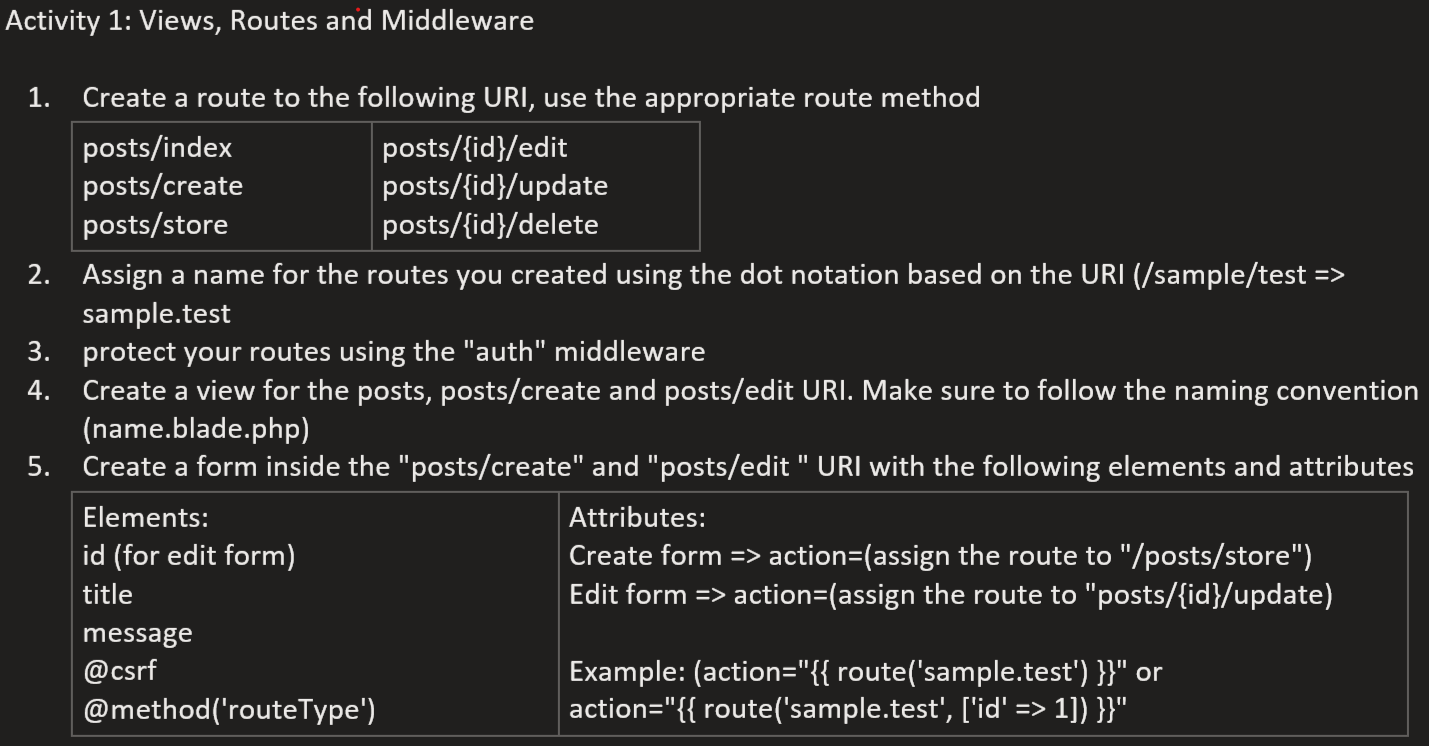
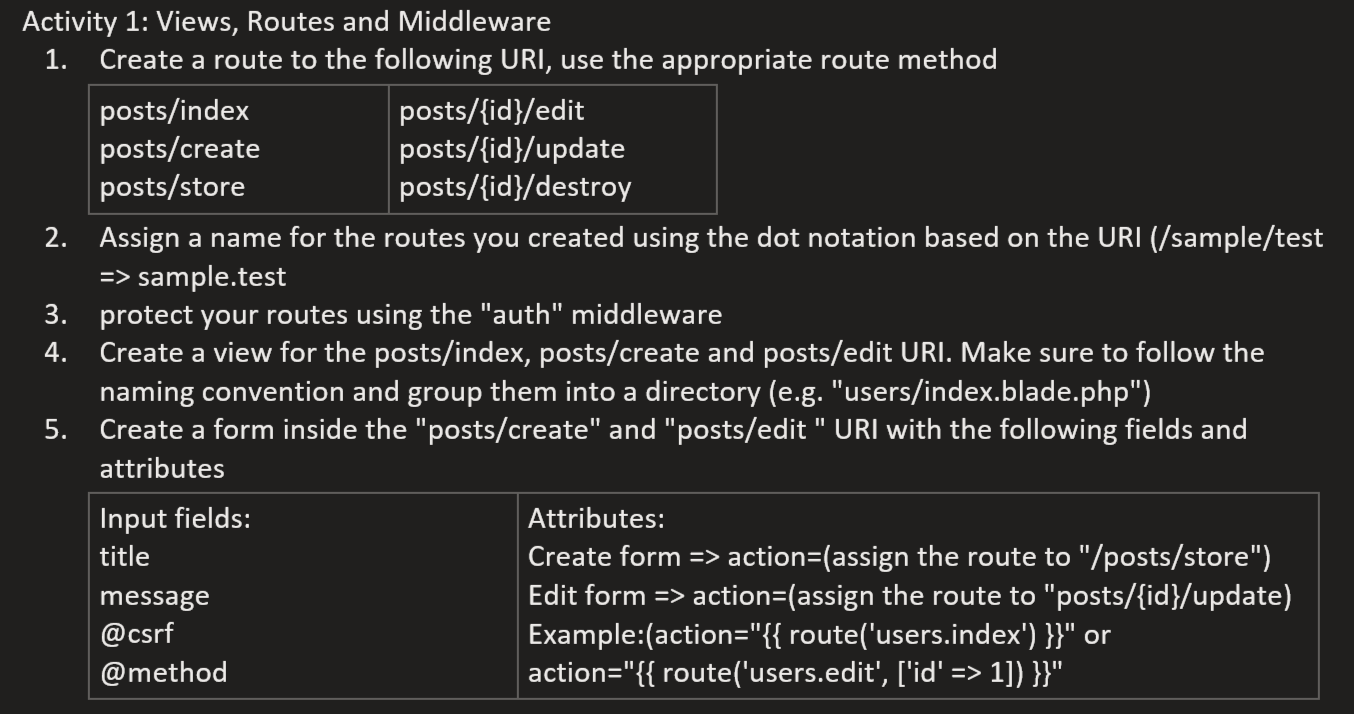
Add MVC, Controllers and Call to action sections

Changed region(s): [[0.0, 0.0, 0.9926, 0.986], [0.9616, 0.6779, 0.9926, 0.7087], [0.0, 0.6162, 0.031, 0.6471]]

diff --git a/slides/laravel-workshop.html b/slides/laravel-workshop.html
@@ -38,6 +38,8 @@
     <meta name="theme-color" content="#333333">
   </head>
   <body>
+    <div id="fb-root"></div>
+    <script async defer crossorigin="anonymous" src="https://connect.facebook.net/en_US/sdk.js#xfbml=1&version=v6.0&appId=619591822213872&autoLogAppEvents=1"></script>
     <main role="main">
       <article id="webslides" class="horizontal">
 
@@ -74,6 +76,7 @@
           </div>
           <!-- .end .wrap -->
         </section>
+
         <!-- Table of Contents -->
         <section class="slide py-5">
           <div class="wrap size-50">
@@ -81,45 +84,57 @@
                 <h4>Table of Contents</h4>
                 <ol class="">
                   <li>
-                    <a href="#slide=3" title="Go to Prerequisites">
+                    <a href="#slide=1" title="Go to Prerequisites">
                       <span class="chapter">Prerequisites</span>
                       <span class="toc-page">01</span>
                     </a>
                   </li>
                   <li>
-                    <a href="#slide=4" title="Go to Prerequisites">
+                    <a href="#slide=2" title="Go to Prerequisites">
                       <span class="chapter">Installation</span>
                       <span class="toc-page">02</span>
                     </a>
                   </li>
                   <li>
-                    <a href="#slide=5" title="Go to Configuration">
+                    <a href="#slide=3" title="Go to Configuration">
                       <span class="chapter">Configuration</span>
                       <span class="toc-page">03</span>
                     </a>
                   </li>
                   <li>
-                    <a href="#slide=6" title="Go to Routing">
-                      <span class="chapter">Routing and Middleware</span>
+                    <a href="#slide=4" title="Go to Routing">
+                      <span class="chapter">MVC Overview</span>
                       <span class="toc-page">04</span>
+                    </a>
+                  </li>
+                  <li>
+                    <a href="#slide=5" title="Go to Routing">
+                      <span class="chapter">Routing and Middleware</span>
+                      <span class="toc-page">05</span>
                     </a>
                   </li>
                   <li>
                     <a href="#slide=6" title="Go to Views">
                       <span class="chapter">Views and Scaffolding</span>
-                      <span class="toc-page">05</span>
-                    </a>
-                  </li>
-                  <li>
-                    <a href="#slide=6" title="Go to Scaffolding">
-                      <span class="chapter">Activity 1</span>
                       <span class="toc-page">06</span>
                     </a>
                   </li>
                   <li>
-                    <a href="#slide=6" title="Go to Artisan">
-                      <span class="chapter">Artisan</span>
+                    <a href="#slide=7" title="Go to Scaffolding">
+                      <span class="chapter">Activity 1</span>
                       <span class="toc-page">07</span>
+                    </a>
+                  </li>
+                  <li>
+                    <a href="#slide=8" title="Go to Artisan">
+                      <span class="chapter">Artisan</span>
+                      <span class="toc-page">08</span>
+                    </a>
+                  </li>
+                  <li>
+                    <a href="#slide=9" title="Go to Artisan">
+                      <span class="chapter">Controllers</span>
+                      <span class="toc-page">09</span>
                     </a>
                   </li>
                 </ol>
@@ -255,7 +270,35 @@
                 </ul>
               </li>
             </ul>
-            <ul class="list-group">
+
+            <div class="grid">
+              <div class="column">
+<pre style="font-size: x-large">
+<span class="text-muted"># .env</span>
+APP_NAME="Laravel Workshop"
+APP_ENV=local
+APP_DEBUG=true
+APP_URL=http://laravel-workshop.test
+
+DB_CONNECTION=mysql
+DB_HOST=127.0.0.1
+DB_PORT=3306
+DB_DATABASE=laravel_workshop
+DB_USERNAME=root
+DB_PASSWORD=
+
+MAIL_DRIVER=smtp
+MAIL_HOST=smtp.gmail.com
+MAIL_PORT=587
+MAIL_USERNAME=test@gmail.com
+MAIL_PASSWORD=test1234
+MAIL_ENCRYPTION=tls
+MAIL_FROM_ADDRESS=test@gmail.com
+MAIL_FROM_NAME="${APP_NAME}"
+</pre>
+              </div>
+            </div>
+            <!-- <ul class="list-group">
               <div class="card my-2">
                 <div class="card-header p-0">
                   <a href="#" class="btn btn-block text-left collapsed btn-lg text-lg"  style="display:block" data-toggle="collapse" data-target="#collapseTwo" aria-expanded="false" aria-controls="collapseTwo">
@@ -272,9 +315,13 @@
                   </div>
                 </div>
               </div>
-            </ul>
+            </ul> -->
           </div>
         </section>
+        <!-- MVC overview -->
+        <section class="slide py-5" style="background-image:url(mvc.jpg);background-repeat:no-repeat;background-position:center;background-size:contain">
+        </section>
+
         <!-- Routing and Middleware-->
         <section class="slide py-5 ">
           <div class="wrap mx-0 w-100">
@@ -295,13 +342,13 @@
 Route::get('/', function () {
   return view('welcome');
 }); <span class="text-muted">// route directly to view</span>
-Route::get('/test/index', 'TestController@index'}); <span class="text-muted">// route to controller</span>
-Route::post('/test/store', 'TestController@store'})->name('test.store');<span class="text-muted">// named</span>
-Route::get('/test/{id}/edit', 'TestController@edit'})->name('test.edit'); <span class="text-muted"></span>
-Route::put('/test/{id}/update', 'TestController@update'})->name('test.update'); <span class="text-muted"></span>
-Route::delete('/test/{id}/delete', 'TestController@delete'})->name('test.delete'); <span class="text-muted">// with parameters</span>
+Route::get('/users/index', 'UserController@index'}); <span class="text-muted">// route to controller</span>
+Route::post('/users/store', 'UserController@store'})->name('users.store');<span class="text-muted">// named</span>
+Route::get('/users/{id}/edit', 'UserController@edit'})->name('users.edit'); <span class="text-muted"></span>
+Route::put('/users/{id}/update', 'UserController@update'})->name('users.update'); <span class="text-muted"></span>
+Route::delete('/users/{id}/destroy', 'UserController@destroy'})->name('users.destroy'); <span class="text-muted">// with parameters</span>
 
-Route::get('/test/{id}/edit', 'TestController@index'})
+Route::get('/users/{id}/edit', 'UserController@index'})
   ->middleware('auth'); <span class="text-muted">// Protected (only logged in)</span>
 </pre>
                 </span>
@@ -311,9 +358,9 @@ Route::get('/test/{id}/edit', 'TestController@index'})
               <div class="column py-0">
                 <span class="code p-0 d-inline language-php">
 <pre class="" style="font-size:large;line-height:2">
-route('test.store') <span class="text-muted">// to access named routes in views and controller</span>
-route('test.index')->with('success', 'User added') <span class="text-muted">// route with a session data</span>
-redirect()->route('test.edit', ['id' => 1]) <span class="text-muted">// redirect to a route</span>
+route('users.store') <span class="text-muted">// to access named routes in views and controller</span>
+route('users.index')->with('success', 'User added') <span class="text-muted">// route with a session data</span>
+redirect()->route('users.edit', ['id' => 1]) <span class="text-muted">// redirect to a route with a parameter</span>
 </pre>
                 </span>
             </div>
@@ -337,27 +384,27 @@ redirect()->route('test.edit', ['id' => 1]) <span class="text-muted">// redirect
                   <div class="column p-0">
 <pre>
 <span class="text-muted">&lt;!-- routes/web.php --></span>
-<span class="text-muted">// passing data to view</span>
-Route::get('/test/{name}', function ($name) {
+<span class="text-muted">// passing data to a view</span>
+Route::get('/users/{name}', function ($name) {
   $array = ['one', 'two', 'three'];
 
-  return view('test.index', [
+  return view('users.index', [
     'name' => $name,
     'array' => $array
   ]);
-})->name('test.index');
+})->name('users.index');
 </pre>
                   </div>
                   <div class="column p-0">
 <pre>
-<span class="text-muted">&lt;!-- Sample: resources/views/test/index.blade.php --></span>
+<span class="text-muted">&lt;!-- Sample: resources/views/users/index.blade.php --></span>
 &lt;html>
     &lt;body>
         &lt;h1>Hello, {{ $name }}&lt;/h1>
         @foreach ($iterable as $key => $value)
           &lt;p>{{ $value }}&lt;/p>
         @endforeach
-        &lt;a href="{{ route('test.index') }}">Reload page&lt;/a>
+        &lt;a href="{{ route('users.index') }}">Reload page&lt;/a>
     &lt;/body>
 &lt;/html>
 </pre>
@@ -370,20 +417,23 @@ Route::get('/test/{name}', function ($name) {
                 <span class="font-size-1-9">
                   Generate login and register scaffolding and compile assets (<span class="text-muted">// must be in virtual host to test</span>)
                 </span>
-                <div class="terminal-wrap my-3 mx-0 fadeIn w-75">
+                <div class="terminal-wrap my-3 mx-0 fadeIn">
                   <div class="terminal-title-bar m-0"></div>
                   <div class="terminal-text-body font-size-1-5">
                     <p class="my-1">
                       $ <span class="code p-0 d-inline language-bash">composer require laravel/ui:^1.0 --dev</span>
+                      <span class="text-muted">// require laravel ui package</span>
                     </p>
                     <p class="my-2">
                       $ <span class="code p-0 d-inline language-bash">php artisan ui bootstrap --auth</span>
+                      <span class="text-muted">// generate login and register and others</span>
                     </p>
                     <p class="my-2">
                       $ <span class="code p-0 d-inline language-bash">npm install && npm run dev</span>
+                      <span class="text-muted">// install npm dependencies and compile assets</span>
                     </p>
                     <p class="my-2">
-                      $ <span class="code p-0 d-inline language-bash">php artisan migrate</span>
+                      $ <span class="code p-0 d-inline language-bash">php artisan migrate</span> <span class="text-muted">// run migrations</span>
                     </p>
                   </div>
                 </div>
@@ -391,10 +441,8 @@ Route::get('/test/{name}', function ($name) {
             </ul>
           </div>
         </section>
-        <!-- Artisan -->
-        <section class="slide py-5" style="background-image:url(activity-1.png);background-repeat:no-repeat;background-position:center;background-size:cover">
-          <div class="wrap mx-0 w-100">
-          </div>
+        <!-- Activity -->
+        <section class="slide py-5" style="background-image:url(activity-1.png);background-repeat:no-repeat;background-position:center;background-size:contain">
         </section>
         <!-- Artisan -->
         <section class="slide py-5">
@@ -413,16 +461,16 @@ Route::get('/test/{name}', function ($name) {
                       $ <span class="code p-0 d-inline language-bash">php artisan list <span class="text-muted">// show available commands</span></span>
                     </p>
                     <p class="my-2">
-                      $ <span class="code p-0 d-inline language-bash">php artisan make:controller TestController  --resource<span class="text-muted"></span></span>
+                      $ <span class="code p-0 d-inline language-bash">php artisan make:controller UserController  --resource<span class="text-muted"></span></span>
                     </p>
                     <p class="my-2">
-                      $ <span class="code p-0 d-inline language-bash">php artisan make:migration CreateTestTable<span class="text-muted"></span></span>
+                      $ <span class="code p-0 d-inline language-bash">php artisan make:migration CreateUsersTable<span class="text-muted"></span></span>
                     </p>
                     <p class="my-2">
-                      $ <span class="code p-0 d-inline language-bash">php artisan make:model Test<span class="text-muted"></span></span>
+                      $ <span class="code p-0 d-inline language-bash">php artisan make:model User<span class="text-muted"></span></span>
                     </p>
                     <p class="my-2">
-                      $ <span class="code p-0 d-inline language-bash">php artisan make:model Test --migration --controller<span class="text-muted"></span></span>
+                      $ <span class="code p-0 d-inline language-bash">php artisan make:model User --migration --controller<span class="text-muted"></span></span>
                     </p>
                     <p class="my-2">
                       $ <span class="code p-0 d-inline language-bash">php artisan help [command] <span class="text-muted"></span></span>
@@ -455,6 +503,99 @@ Route::get('/test/{name}', function ($name) {
             </ul>
           </div>
         </section>
+
+        <!-- Controllers -->
+        <section class="slide py-5">
+          <div class="wrap mx-0 w-100">
+            <h1 class="">
+              <a target="blank" href="https://laravel.com/docs/6.x/controllers">Controllers</a>
+            </h1>
+            <hr class="m-3">
+            <ul class="">
+              <li class="mb-4">
+                <span class="font-size-1-9">
+                  Controllers can group related request handling logic into a single class
+                </span>
+                <div class="terminal-wrap my-3 mx-0 fadeIn w-75">
+                  <div class="terminal-title-bar m-0"></div>
+                  <div class="terminal-text-body font-size-1-5">
+                    <p class="my-1">
+                      $ <span class="code p-0 d-inline language-bash">php artisan make:controller UserController  --resource<span class="text-muted"></span></span>
+                    </p>
+                  </div>
+                </div>
+                <div class="grid">
+                  <div class="column p-0">
+<pre>
+<span class="text-muted">&lt;!-- app/Http/Controllers/UserController.php --></span>
+use App\User;
+class UserController extends Controller
+{
+    public function index()
+    {
+        $users = User::all();
+        return view('users.index', ['users' => $users])
+    }
+    public function edit(User $user) // dependency injection
+    {
+        return view('users.edit', ['user' => $user]);
+    }
+    public function create() {}
+    public function store(Request $request) {}
+    public function edit($id) {}
+    public function update(Request $request, $id) {}
+    public function destroy($id) {}
+}
+</pre>
+                  </div>
+                  <div class="column p-0">
+<pre>
+<span class="text-muted">&lt;!-- Sample: resources/views/users/index.blade.php --></span>
+&lt;html>
+    &lt;body>
+        @foreach ($users as $user)
+          &lt;p>{{ $user->first_name }}&lt;/p>
+        @endforeach
+    &lt;/body>
+&lt;/html>
+</pre>
+<pre>
+<span class="text-muted">&lt;!-- Sample: resources/views/users/edit.blade.php --></span>
+&lt;form action="{{ route('users.update', ['id' => $user->id]) }}">
+  @csrf
+  @method('PUT')
+
+  &lt;input type="first_name" value="{{ $user->first_name }}">
+  &lt;input type="submit">
+&lt;/form>
+</pre>
+                  </div>
+                </div>
+              </li>
+            </ul>
+          </div>
+        </section>
+
+        <!-- Call to action -->
+        <section class="py-5">
+          <!--.wrap = container (width: 90%) -->
+          <div class="wrap aligncenter">
+            <h1>Call to Action</h1>
+            <hr>
+            <div class="grid">
+              <div class="column">
+                <div class="fb-page" data-href="https://www.facebook.com/sparkpointio/" data-tabs="timeline" data-width="" data-height="" data-small-header="true" data-adapt-container-width="true" data-hide-cover="false" data-show-facepile="true"><blockquote cite="https://www.facebook.com/sparkpointio/" class="fb-xfbml-parse-ignore"><a href="https://www.facebook.com/sparkpointio/">SparkPoint</a></blockquote></div>
+              </div>
+              <div class="column">
+                <a class="twitter-timeline" data-height="500" href="https://twitter.com/sparkpointio?ref_src=twsrc%5Etfw">Tweets by sparkpointio</a>
+              </div>
+              <div class="column">
+                <div class="fb-page" data-href="https://www.facebook.com/bicolit.org/" data-tabs="timeline" data-width="" data-height="" data-small-header="true" data-adapt-container-width="true" data-hide-cover="false" data-show-facepile="true"><blockquote cite="https://www.facebook.com/bicolit.org/" class="fb-xfbml-parse-ignore"><a href="https://www.facebook.com/bicolit.org/">Bicol IT.org</a></blockquote></div>
+              </div>
+            </div>
+          </div>
+          <!-- .end .wrap -->
+        </section>
       </article>
     </main>
     <!--main-->
@@ -462,7 +603,8 @@ Route::get('/test/{name}', function ($name) {
     <!-- Required -->
     <script src="../assets/js/app.js"></script>
     <script src="../assets/js/webslides.js"></script>
-
+    <script async src="//cdn.embedly.com/widgets/platform.js" charset="UTF-8"></script>
+    <script async src="https://platform.twitter.com/widgets.js" charset="utf-8"></script>
     <!-- OPTIONAL - svg-icons.js (fontastic.me - Font Awesome as svg icons) -->
     <!-- <script defer src="../static/js/svg-icons.js"></script> -->
 
